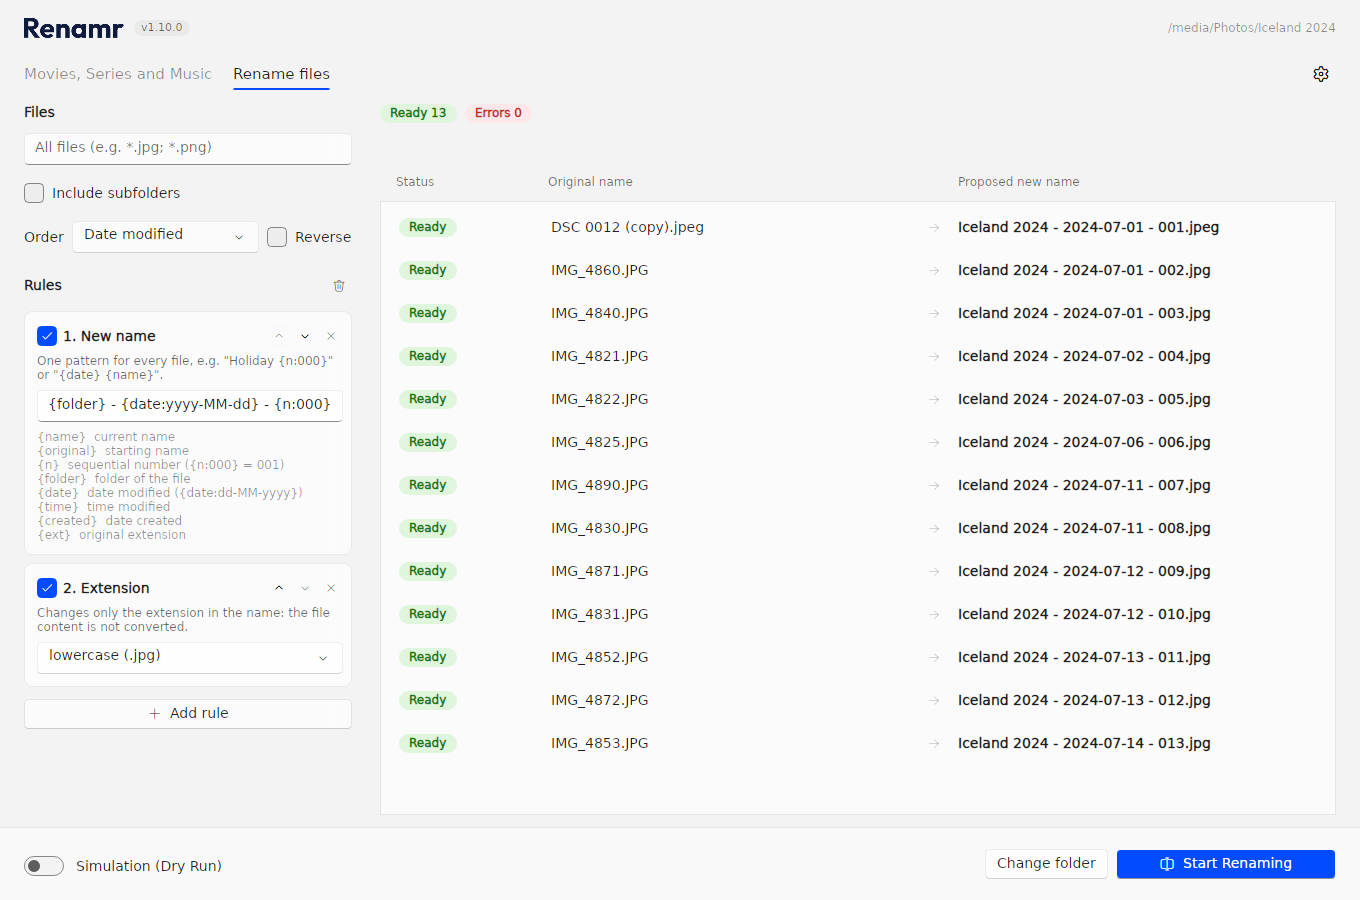
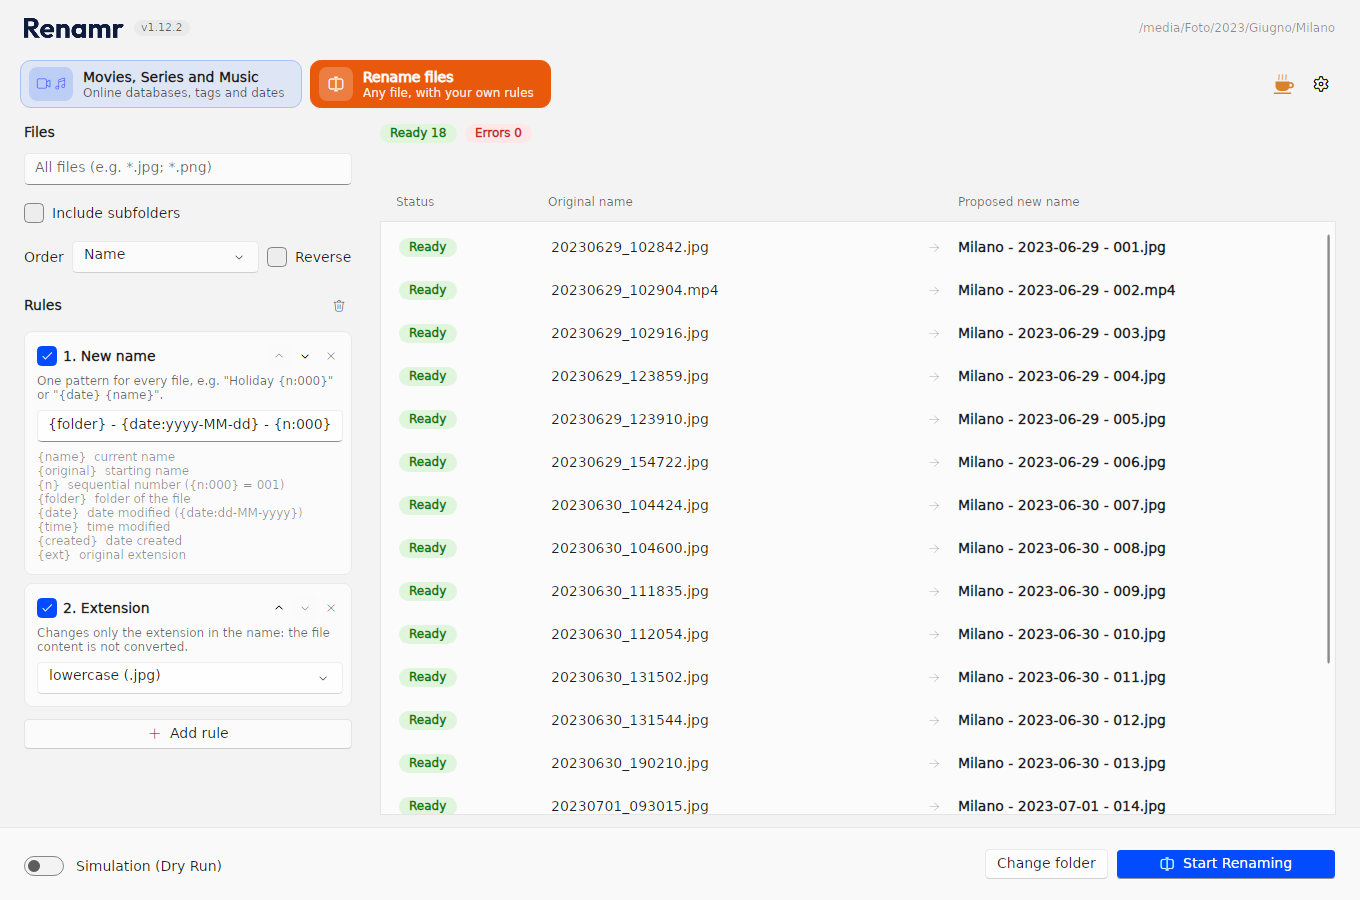
Retake the Linux README screenshots with v1.12 and the Windows movie list (#20)

diff --git a/README.md b/README.md
@@ -19,10 +19,10 @@
   <a href="https://www.paypal.com/donate/?hosted_button_id=VU7PLDUSY9BHQ"><img src="https://img.shields.io/badge/%E2%98%95%20Buy%20me%20a%20coffee-PayPal-0070BA?logo=paypal&logoColor=white" alt="Buy me a coffee with PayPal"></a>
 </p>
 
-![Renamr previewing a library of movies and series](docs/screenshots/media-preview.png)
+![Renamr previewing a library of movies](docs/screenshots/media-preview.png)
 
-Renamr takes a folder full of names like `Oppenheimer.2023.2160p.UHD.BluRay.x265.HDR-DDN.mkv`, looks every file up in the
-online movie, TV and music databases, and turns it into `Oppenheimer (2023) [2160p].mkv`. It also writes the real release
+Renamr takes a folder full of names like `Bugonia.2025.iTA-ENG.WEBDL.2160p.HEVC.HDR.x265-CYBER.mkv`, looks every file up in
+the online movie, TV and music databases, and turns it into `Bugonia (2025) [2160p].mkv`. It also writes the real release
 date into the file system and into the file's own tags, so your library sorts by the date the film came out, not the
 date you downloaded it. Nothing on disk changes until you press **Start Renaming**, and every rename can be undone.
 
@@ -98,15 +98,14 @@ rules (numbering, patterns with dates and folder names, find and replace, case, 
 
 ### Linux
 
-Taken from an earlier version (1.10) with the interface in English: the layout and flow are the same, the mode tabs are
-now the colored ones shown above.
+The same movies and photos as the Windows screenshots, with the interface in English and the light theme.
 
 | | |
 |---|---|
 | ![Start screen](docs/screenshots/start.png) | ![Right-click menu with name format presets](docs/screenshots/name-format-menu.png) |
 | **Start screen.** Drop a folder or pick one; choose the title language. | **Right-click menu.** Switch the name format or the title language for the whole list in one click. |
 | ![Renaming completed with an Undo button](docs/screenshots/renamed-undo.png) | ![Rename files mode with a pattern and an extension rule](docs/screenshots/rename-files.png) |
-| **After renaming.** Every row shows its result, and **Undo rename** restores the original names. | **Rename files.** Rules on the left, live preview on the right. |
+| **After renaming.** Every row shows its result, and **Undo rename** restores the original names. | **Rename files.** The photos become `Milano - 2023-06-29 - 001.jpg` with a pattern rule and a lowercase extension rule. |
 | ![Settings: name formats](docs/screenshots/settings-formats.png) | ![Settings: metadata to write](docs/screenshots/settings-metadata.png) |
 | **Settings: name formats** with a live example under each one, and the API keys. | **Settings: metadata to write.** Pick exactly which fields end up in your files. |
 
